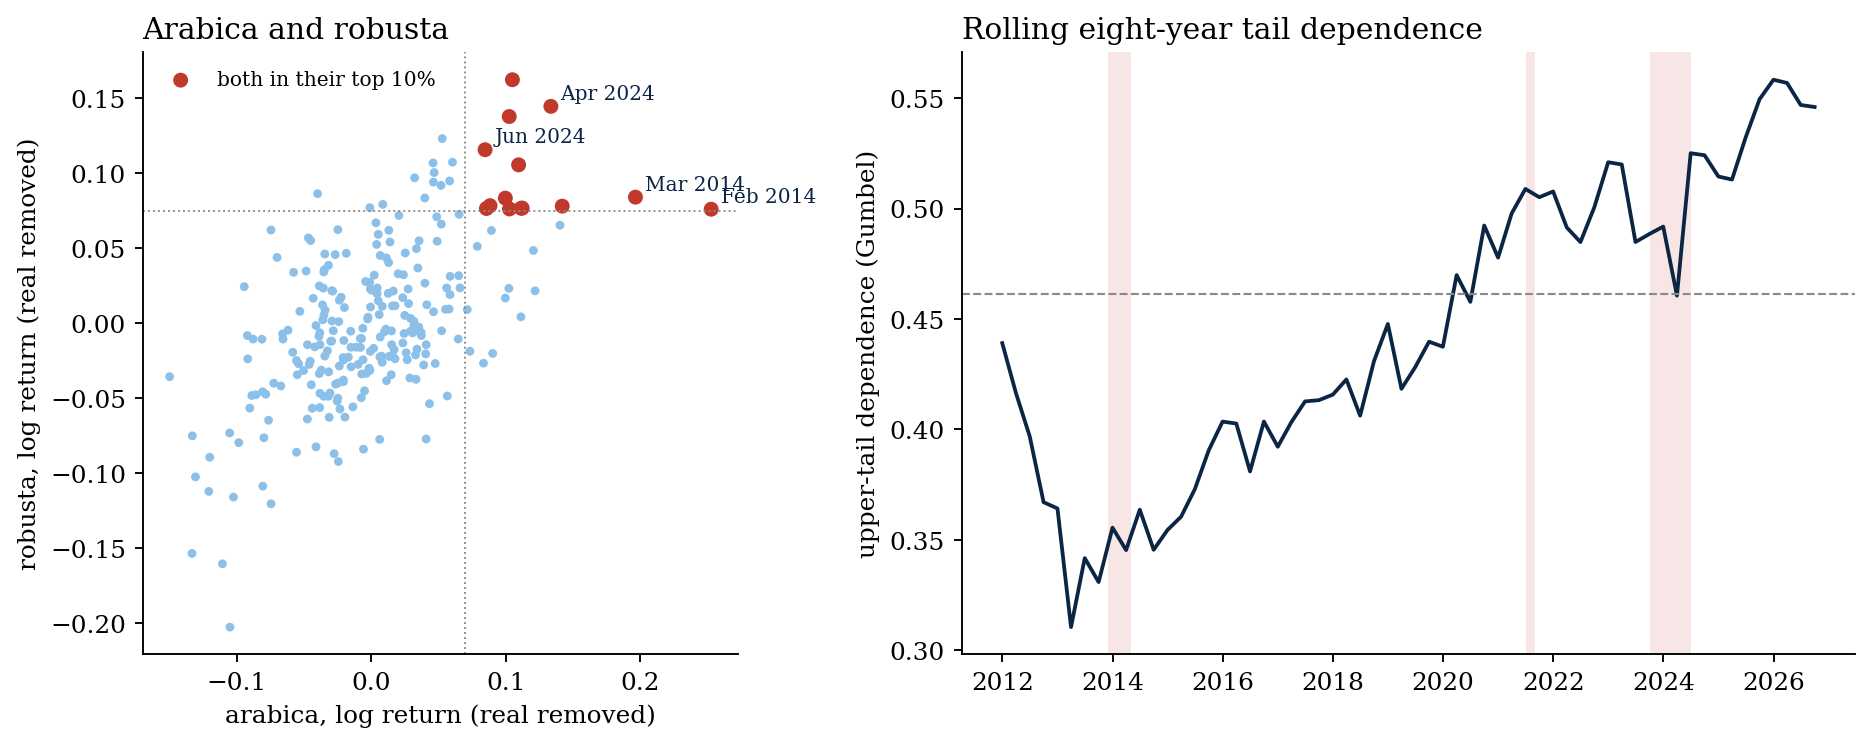
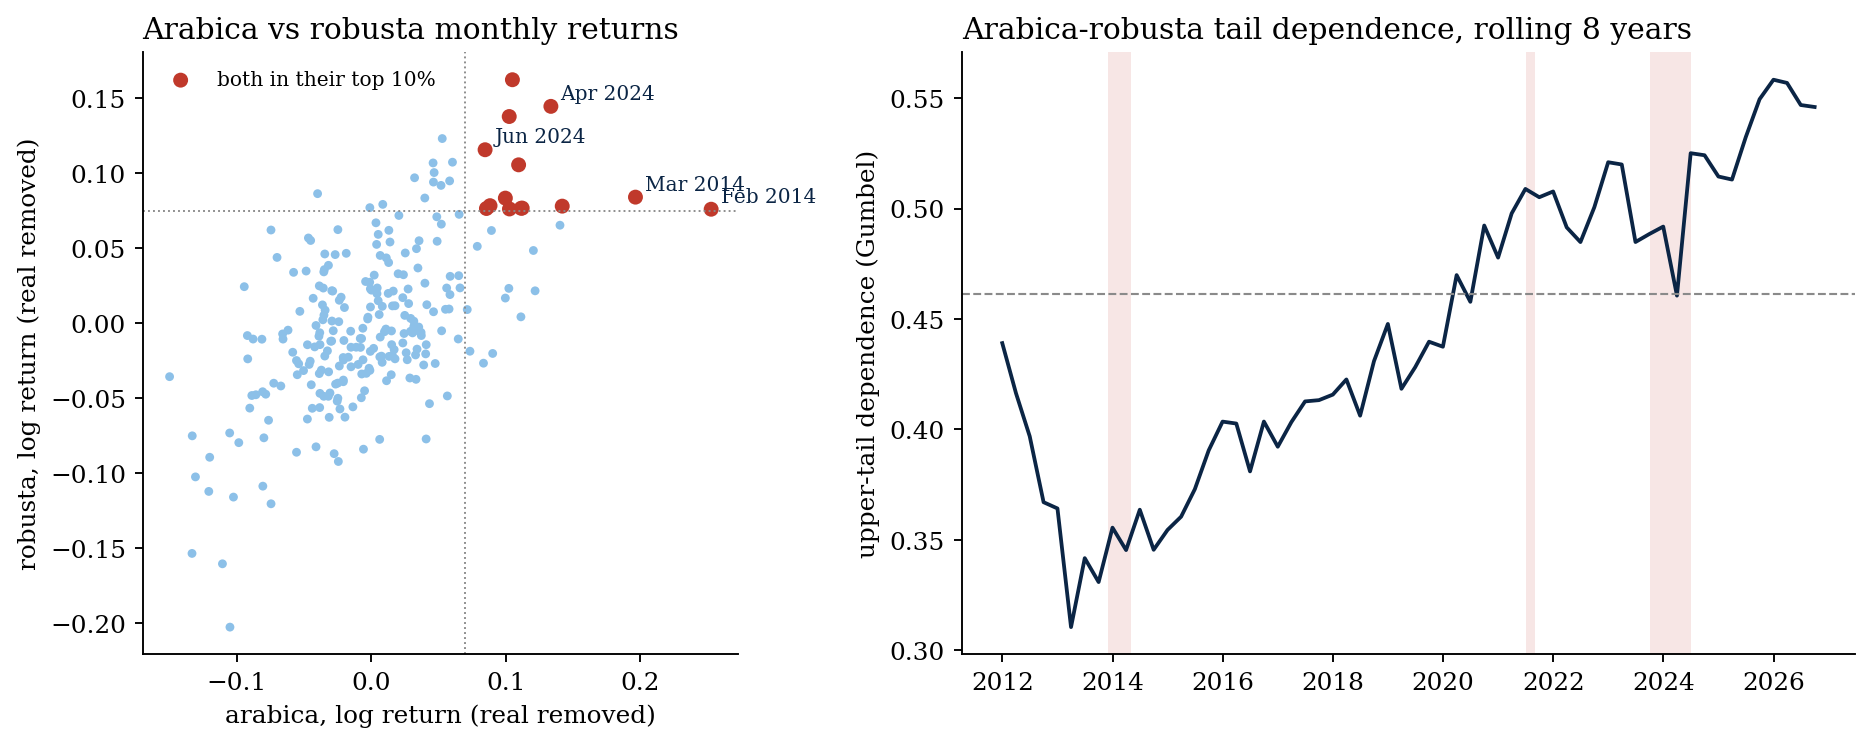
013: copula density rings (Gumbel vs Gaussian), clearer chart titles

Changed region(s): [[0.4957, 0.0309, 0.8985, 0.0618], [0.1239, 0.0309, 0.3718, 0.0618]]

diff --git a/013-coffee-forward-curves/make_weather_figures.py b/013-coffee-forward-curves/make_weather_figures.py
@@ -12,6 +12,8 @@
 #                       correlation through time from DCC-GARCH, weather events shaded
 #   fig12_bean_tail     arabica against robusta with joint spikes marked, and the Gumbel tail
 #                       dependence between them on a rolling eight-year window
+#   fig13_copula        the fitted Gumbel and Gaussian copulas of arabica against robusta as
+#                       density rings in normal-score space, the months on top, joint spikes red
 #
 #   python make_weather_figures.py
 
@@ -89,7 +91,7 @@ def scatter(df):
                         xytext=(5, 4), textcoords="offset points", fontsize=8.5, color=NAVY)
         ax.axhline(0, color="0.85", lw=0.8); ax.axvline(0, color="0.85", lw=0.8)
         ax.set_xlabel("Vietnam heat, three months (z)")
-        ax.set_title(bean.capitalize(), loc="left")
+        ax.set_title(f"{bean.capitalize()} return (real removed) vs weather", loc="left")
     axes[0].set_ylabel("Brazil dryness, three months (z)")
     fig.colorbar(sc, ax=axes, shrink=0.85, label="log return, real removed")
     fig.savefig(os.path.join(FIG, "fig9_scatter.png"), dpi=170, bbox_inches="tight")
@@ -109,7 +111,7 @@ def lag_plot(lags):
             ax.plot(g.lag, g.r, marker="o", ms=4, color=cols[h], lw=1.5, label=names[h])
         ax.axhline(0, color="0.6", lw=0.8)
         ax.set_xlabel("months the weather leads the price")
-        ax.set_title(bean.capitalize(), loc="left")
+        ax.set_title(f"{bean.capitalize()}: correlation with weather by lag", loc="left")
     axes[0].set_ylabel("Gaussian-rank correlation")
     axes[1].legend(frameon=False, fontsize=9, loc="upper right")
     fig.savefig(os.path.join(FIG, "fig10_lags.png"), dpi=170, bbox_inches="tight")
@@ -149,7 +151,7 @@ def dependence_figure():
     ax.axvline(0.10, color=GREY, lw=1, ls=":", label="chance (empirical)")
     ax.set_yticks(y, [names[k] for k in keys]); ax.invert_yaxis()
     ax.set_xlabel("upper-tail dependence")
-    ax.set_title("Tail dependence", loc="left")
+    ax.set_title("Tail dependence, weather vs price", loc="left")
     ax.legend(frameon=False, fontsize=8.5, loc="upper center", bbox_to_anchor=(0.45, -0.18), ncol=3)
     ax = fig.add_subplot(gs[1])
     s = pd.read_csv(os.path.join(RES, "dcc.csv"), index_col=0, parse_dates=True)
@@ -157,7 +159,7 @@ def dependence_figure():
     ax.axhline(s.dcc.mean(), color=GREY, lw=0.9, ls="--")
     shade(ax, label=False)
     ax.set_ylabel("correlation")
-    ax.set_title("Arabica and robusta, DCC-GARCH", loc="left")
+    ax.set_title("Arabica-robusta correlation (DCC-GARCH)", loc="left")
     fig.savefig(os.path.join(FIG, "fig11_dependence.png"), dpi=170, bbox_inches="tight")
     plt.close(fig)
 
@@ -178,17 +180,62 @@ def bean_tail_figure():
             ax.annotate(t.strftime("%b %Y"), (x[t], y[t]), xytext=(4, 3), textcoords="offset points", fontsize=8.5, color=NAVY)
     ax.axvline(x.quantile(0.9), color=GREY, lw=0.8, ls=":"); ax.axhline(y.quantile(0.9), color=GREY, lw=0.8, ls=":")
     ax.set_xlabel("arabica, log return (real removed)"); ax.set_ylabel("robusta, log return (real removed)")
-    ax.set_title("Arabica and robusta", loc="left"); ax.legend(frameon=False, fontsize=8.5, loc="upper left")
+    ax.set_title("Arabica vs robusta monthly returns", loc="left"); ax.legend(frameon=False, fontsize=8.5, loc="upper left")
     ax = axes[1]
     ax.plot(r.month, r.tail_lambda, color=NAVY, lw=1.6)
     ax.axhline(d["tail_lambda"], color=GREY, lw=0.9, ls="--")
     shade(ax)
     ax.set_ylabel("upper-tail dependence (Gumbel)")
-    ax.set_title("Rolling eight-year tail dependence", loc="left")
+    ax.set_title("Arabica-robusta tail dependence, rolling 8 years", loc="left")
     fig.savefig(os.path.join(FIG, "fig12_bean_tail.png"), dpi=170, bbox_inches="tight")
+    plt.close(fig)
+
+
+def copula_figure():
+    """Copula density rings in normal-score space, Gumbel against Gaussian, months on top."""
+    import json
+    from scipy.stats import norm, multivariate_normal, rankdata
+    d = json.load(open(os.path.join(RES, "dependence.json")))["beans_tail"]
+    df = pd.read_csv(os.path.join(RES, "weather_monthly.csv"), index_col=0, parse_dates=True)
+    u = rankdata(df.arabica_res) / (len(df) + 1); v = rankdata(df.robusta_res) / (len(df) + 1)
+    zu, zv = norm.ppf(u), norm.ppf(v)
+    g = np.linspace(-3.2, 3.2, 241); X, Y = np.meshgrid(g, g)
+    U, V = norm.cdf(X), norm.cdf(Y)
+    th, rho = d["theta"], d["gaussian_rho"]
+
+    def gumbel_density(U, V):
+        a, b = -np.log(U), -np.log(V); sm = a ** th + b ** th; A = sm ** (1 / th)
+        c = np.exp(-A + np.log(A + th - 1) + (1 - 2 * th) / th * np.log(sm) + (th - 1) * (np.log(a) + np.log(b)) + a + b)
+        return c * norm.pdf(X) * norm.pdf(Y)
+
+    gauss = multivariate_normal([0, 0], [[1, rho], [rho, 1]])
+    dens = {"Gumbel copula": gumbel_density(U, V), "Gaussian copula": gauss.pdf(np.dstack([X, Y]))}
+    q = 0.9
+    p_both = {"Gumbel copula": 1 - 2 * q + np.exp(-(2 * (-np.log(q)) ** th) ** (1 / th)),
+              "Gaussian copula": 1 - 2 * q + gauss.cdf([norm.ppf(q), norm.ppf(q)])}
+    emp = float(((u > q) & (v > q)).mean())
+    fig, axes = plt.subplots(1, 2, figsize=(12, 5.6), sharey=True)
+    for ax, (name, Z) in zip(axes, dens.items()):
+        ax.contourf(X, Y, Z, levels=12, cmap="Blues", alpha=0.9)
+        ax.contour(X, Y, Z, levels=12, colors=NAVY, linewidths=0.5, alpha=0.6)
+        k = norm.ppf(q)
+        ax.add_patch(plt.Rectangle((k, k), 3.2 - k, 3.2 - k, color=RED, alpha=0.15, lw=0))
+        both = (u > q) & (v > q)
+        ax.scatter(zu[~both], zv[~both], s=9, color="white", edgecolor=NAVY, lw=0.4)
+        ax.scatter(zu[both], zv[both], s=26, color=RED, edgecolor="white", lw=0.5)
+        ax.text(0.03, 0.97, f"chance both are top 10%:\n  {name.split()[0]} {p_both[name]:.1%}\n"
+                            f"  observed {emp:.1%}\n  independent 1.0%",
+                transform=ax.transAxes, va="top", fontsize=9, color=NAVY,
+                bbox=dict(facecolor="white", alpha=0.8, edgecolor="none"))
+        ax.set_xlim(-3.2, 3.2); ax.set_ylim(-3.2, 3.2); ax.set_aspect("equal")
+        ax.set_xlabel("arabica return, normal score")
+        ax.set_title(f"{name}, arabica vs robusta", loc="left")
+    axes[0].set_ylabel("robusta return, normal score")
+    fig.savefig(os.path.join(FIG, "fig13_copula.png"), dpi=170, bbox_inches="tight")
     plt.close(fig)
 
 
 if __name__ == "__main__":
     dependence_figure()
     bean_tail_figure()
+    copula_figure()
